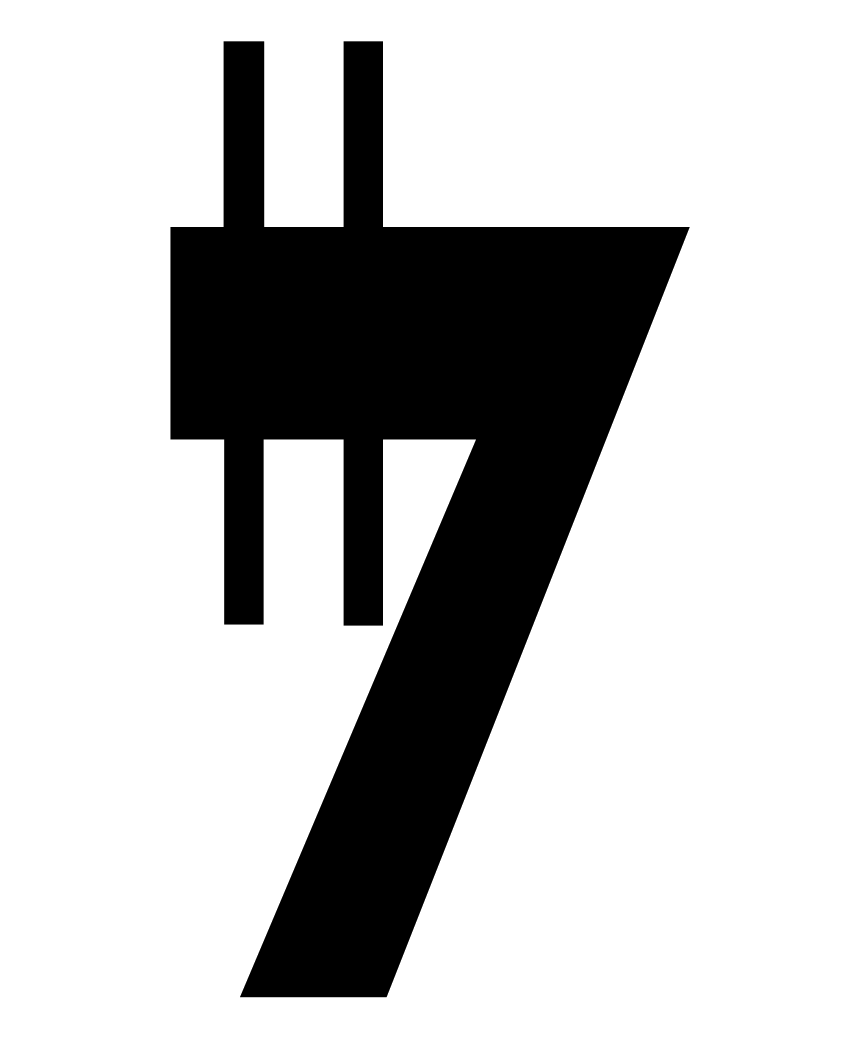
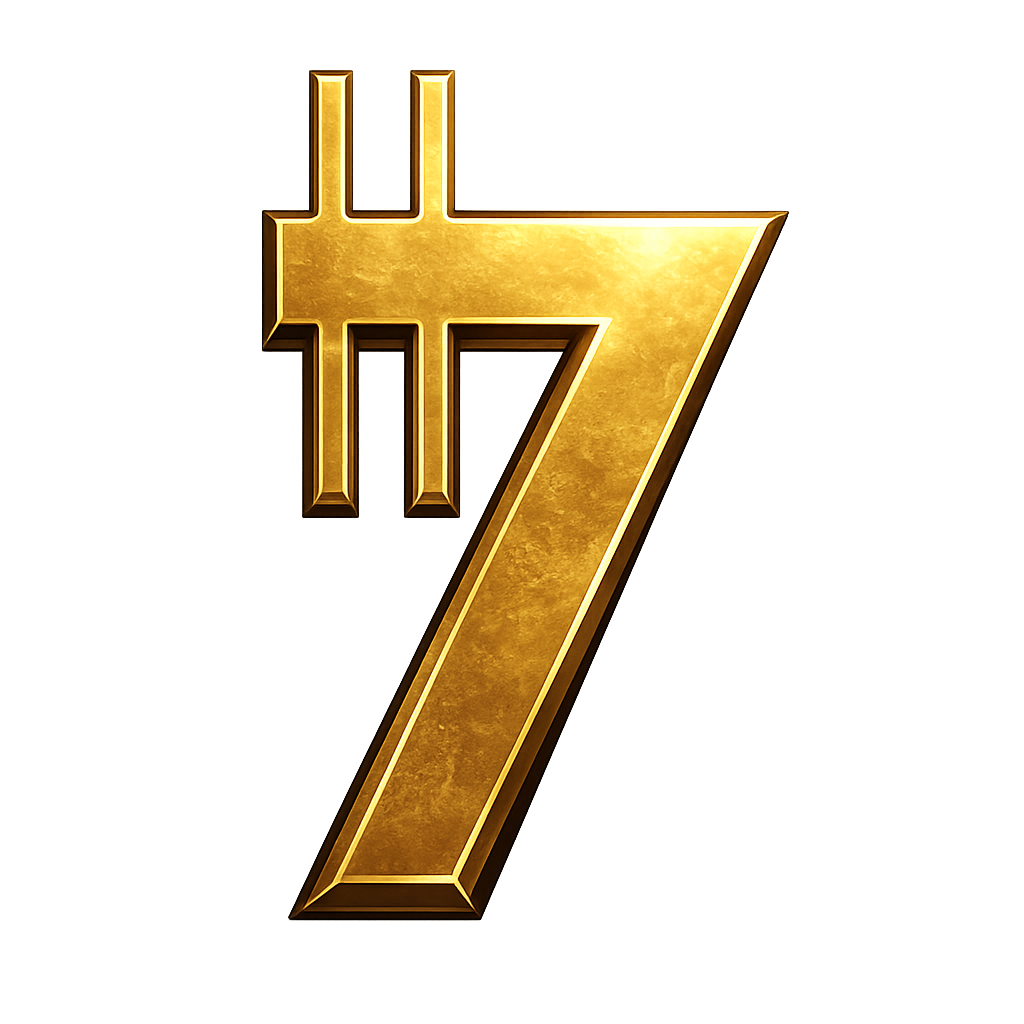
feat: nueva imagen creditos galacticos dorada + icono igual que reales
Sustituye el simbolo negro (con filtro CSS dorado) por la imagen
con textura dorada propia. Mismo tamaño 28x28px y drop-shadow
que el icono de Reales de a Ocho para celdas identicas.

Changed region(s): [[0.1814, 0.0312, 0.8163, 0.9688]]

diff --git a/frontend/src/components/CharacterSheet.jsx b/frontend/src/components/CharacterSheet.jsx
@@ -276,10 +276,9 @@ export default function CharacterSheet({ username, isMaster, characters, onUpdat
                   filter:`drop-shadow(0 0 4px ${titleColor}aa)`,
                 }} />
               ) : (
-                /* Símbolo créditos: negro transparente → filtro oro brillante */
                 <img src={logo} alt="" style={{
-                  width:'16px', height:'16px', objectFit:'contain', flexShrink:0,
-                  filter:'invert(1) sepia(1) saturate(6) brightness(1.15)',
+                  width:'28px', height:'28px', objectFit:'contain', flexShrink:0,
+                  filter:`drop-shadow(0 0 4px ${titleColor}aa)`,
                 }} />
               )
             )}